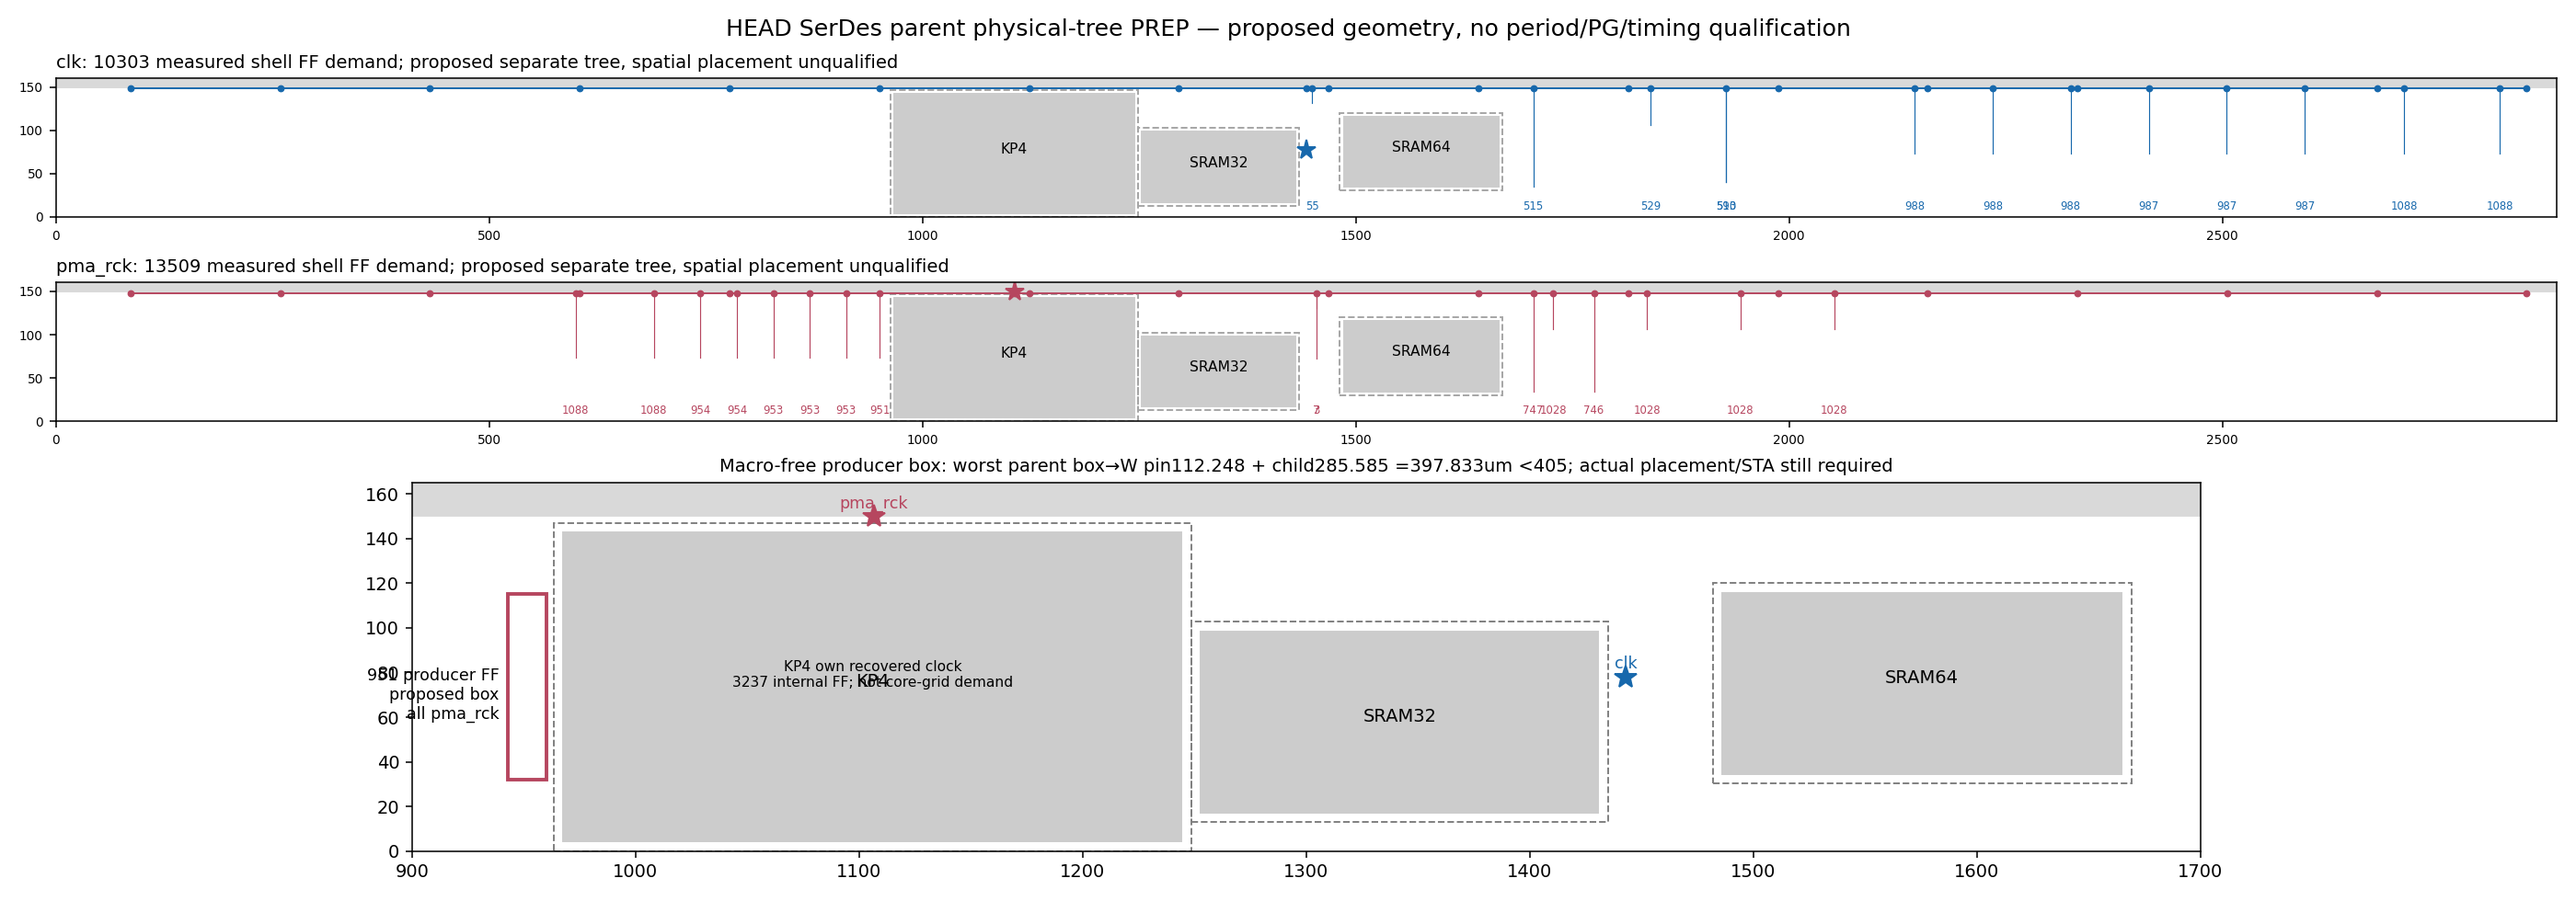
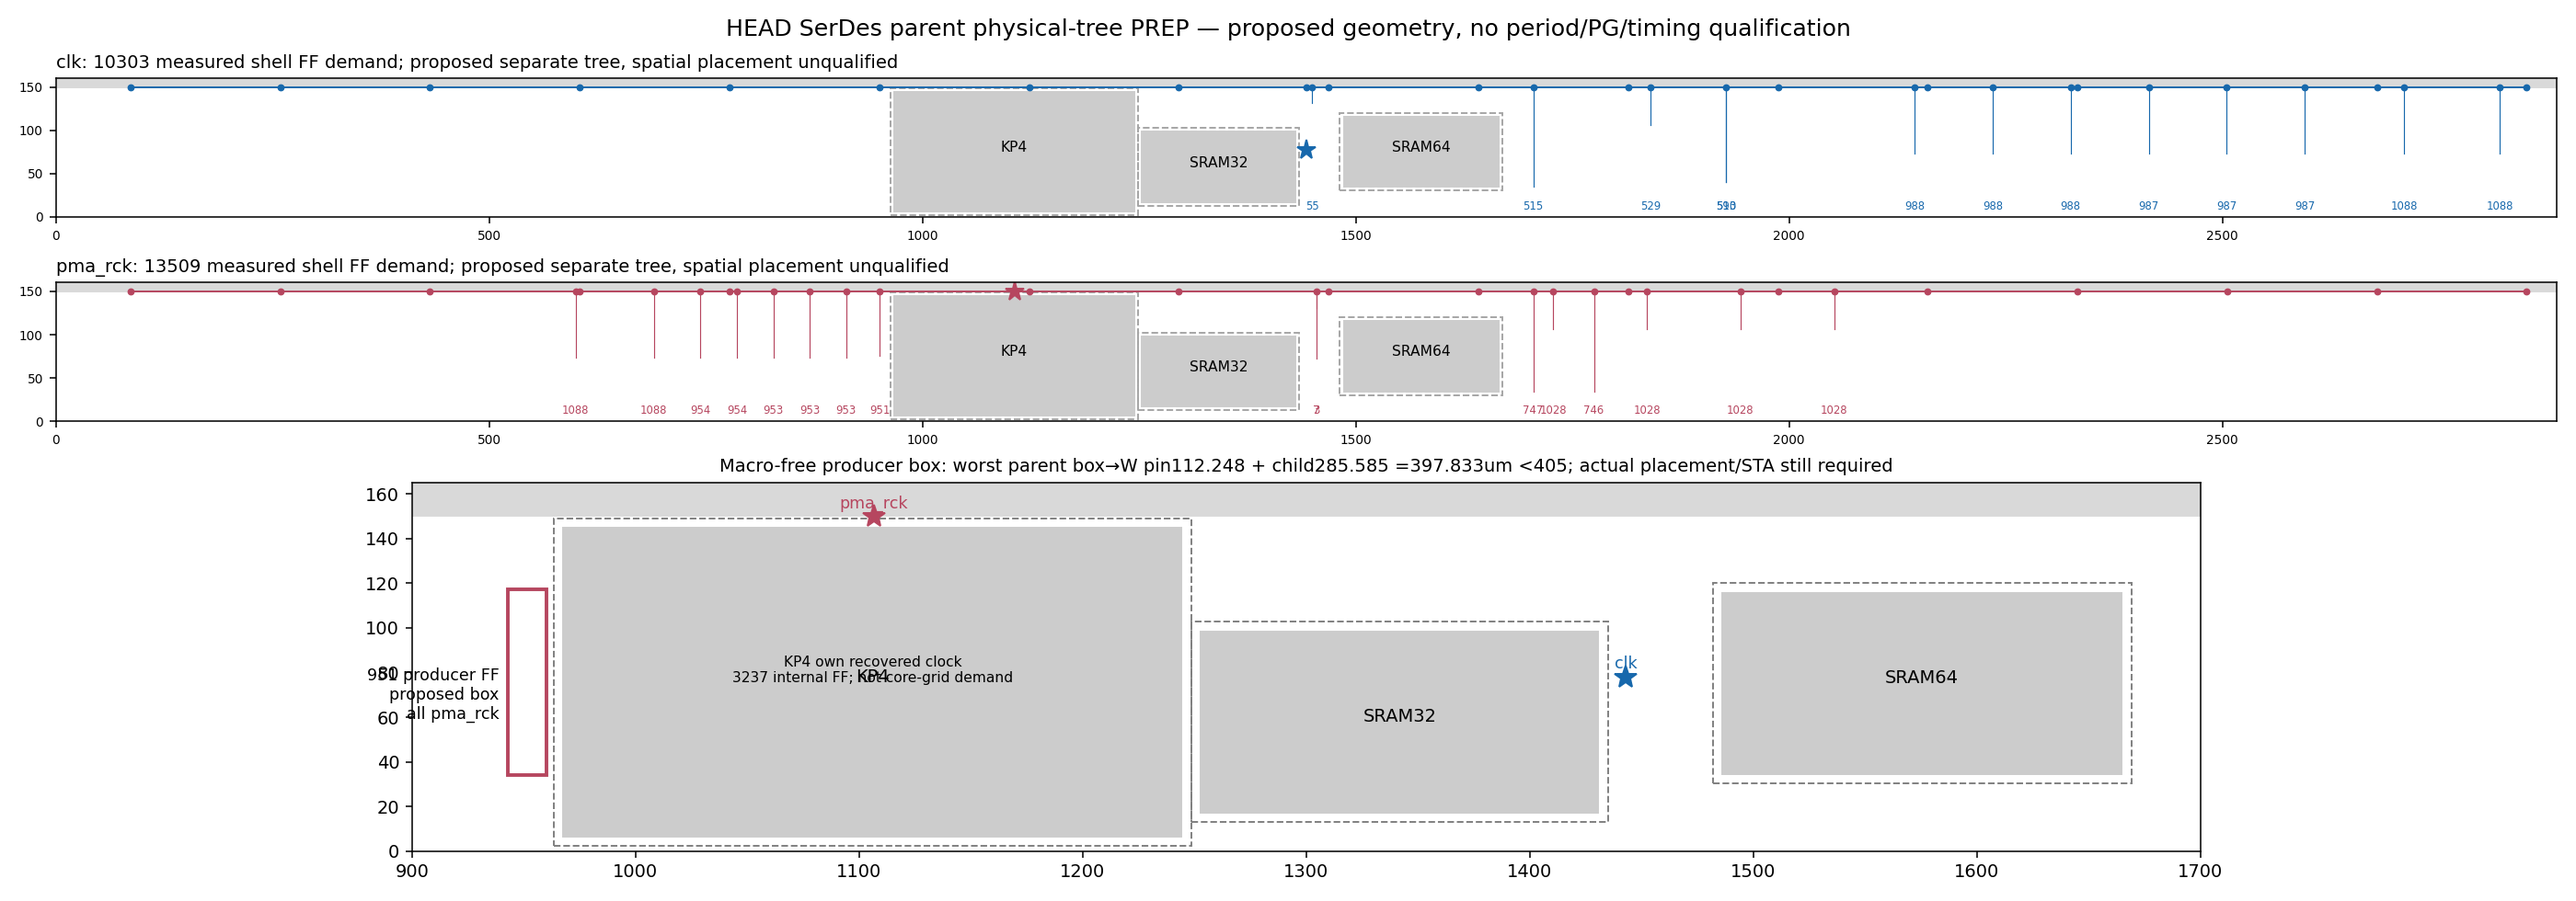
HEAD use legal track-aligned parent origin with full clock crown clearance

diff --git a/results/codex_head_collect_1030/serdes_reshape/parent_tree_prep/parent_tree_prep.py b/results/codex_head_collect_1030/serdes_reshape/parent_tree_prep/parent_tree_prep.py
@@ -8,28 +8,28 @@ prod=json.load(open('/tmp/head_collect_review/parent_kp4_producers.json'));censu
 def leaves(name,n,xs,y,rect,root):
  q,r=divmod(n,len(xs));return [dict(name=f'{name}_{i}',planned_clock_center_um=[x,y],actual_ff_demand=q+(i<r),planned_ff_region_um=rect,source_clock_port=root) for i,x in enumerate(xs)]
 rec=[]
-rec+=leaves('kp4_producers',951,[951],147.312,[943,32,960,115],'pma_rck')
-rec+=leaves('syn_remainder',4767,[744,786,828,870,912],147.312,[720,4.32,940,142.56],'pma_rck')
-rec+=leaves('prx',2176,[600,690],147.312,[550,4.32,720,142.56],'pma_rck')
-rec+=leaves('rm_write',4112,[1728,1836,1944,2052],147.312,[1675,70,2100,142.56],'pma_rck')
-rec+=leaves('dec_out',1493,[1705,1775],147.312,[1675,4.32,1815,65],'pma_rck')
-rec+=leaves('dec_dly',7,[1455],147.312,[1439,35,1477,110],'pma_rck')
-rec+=leaves('rx_misc',3,[1455],147.312,[1439,120,1477,142.56],'pma_rck')
+rec+=leaves('kp4_producers',951,[951],149.715,[943,34.208,960,117.208],'pma_rck')
+rec+=leaves('syn_remainder',4767,[744,786,828,870,912],149.715,[720,4.32,940,142.56],'pma_rck')
+rec+=leaves('prx',2176,[600,690],149.715,[550,4.32,720,142.56],'pma_rck')
+rec+=leaves('rm_write',4112,[1728,1836,1944,2052],149.715,[1675,70,2100,142.56],'pma_rck')
+rec+=leaves('dec_out',1493,[1705,1775],149.715,[1675,4.32,1815,65],'pma_rck')
+rec+=leaves('dec_dly',7,[1455],149.715,[1439,35,1477,110],'pma_rck')
+rec+=leaves('rx_misc',3,[1455],149.715,[1439,120,1477,142.56],'pma_rck')
 core=[]
-core+=leaves('enc',5925,[2145,2235,2325,2415,2505,2595],148.608,[2100,4.32,2650,142.56],'clk')
-core+=leaves('ptx',2176,[2710,2820],148.608,[2650,4.32,2881.44,142.56],'clk')
-for nm,n,x,rect in [('ring_read',590,1927,[1824.88,17.28,2030.08,62.64]),('rm_read',529,1840,[1675,70,2100,142.56]),('bout',515,1705,[1675,4.32,1760,65]),('bin',513,1927,[1824.88,17.28,2030.08,62.64])]:core+=leaves(nm,n,[x],148.608,rect,'clk')
-core+=leaves('core_misc_control',55,[1450],148.608,[1439,120,1477,142.56],'clk')
+core+=leaves('enc',5925,[2145,2235,2325,2415,2505,2595],149.445,[2100,4.32,2650,142.56],'clk')
+core+=leaves('ptx',2176,[2710,2820],149.445,[2650,4.32,2881.44,142.56],'clk')
+for nm,n,x,rect in [('ring_read',590,1927,[1824.88,17.28,2030.08,62.64]),('rm_read',529,1840,[1675,70,2100,142.56]),('bout',515,1705,[1675,4.32,1760,65]),('bin',513,1927,[1824.88,17.28,2030.08,62.64])]:core+=leaves(nm,n,[x],149.445,rect,'clk')
+core+=leaves('core_misc_control',55,[1450],149.445,[1439,120,1477,142.56],'clk')
 fwd=leaves('forwarded_ring',2086,[1875,1980],40,[1824.88,17.28,2030.08,62.64],'fclk_in_coll_i0')
 assert sum(x['actual_ff_demand'] for x in rec)==13509
 assert sum(x['actual_ff_demand'] for x in core)==10303
-macros=[dict(name='KP4',rect=[967.68,4.32,1244.16,142.56],halo=[963.36,0,1248.48,146.88]),dict(name='SRAM32',rect=[1252.908,17.292,1430.676,98.292],halo=[1248.588,12.972,1434.996,102.612]),dict(name='SRAM64',rect=[1486.188,34.572,1664.82,115.572],halo=[1481.868,30.252,1669.14,119.892])]
+macros=[dict(name='KP4',rect=[967.68,6.528,1244.16,144.768],halo=[963.36,2.208,1248.48,149.088]),dict(name='SRAM32',rect=[1252.908,17.292,1430.676,98.292],halo=[1248.588,12.972,1434.996,102.612]),dict(name='SRAM64',rect=[1486.188,34.572,1664.82,115.572],halo=[1481.868,30.252,1669.14,119.892])]
 roots={'clk':[1442.88,77.76],'pma_rck':[1106.528,149.728],'fclk_in_coll_i0':[1927.392,2.656]}
 trunks={}
-for root,y in [('clk',148.608),('pma_rck',147.312)]:
+for root,y in [('clk',149.445),('pma_rck',149.715)]:
  special=sorted(set([roots[root][0]]+[q['planned_clock_center_um'][0] for q in (core if root=='clk' else rec)]));xs=sorted(special+[86.4+172.8*i for i in range(17) if all(abs(86.4+172.8*i-z)>=4.32 for z in special)])
  trunks[root]=dict(root_um=roots[root],layer='HELD pending actual PG-lane selection',planned_buffer_centers_um=[[x,y] for x in xs],max_chain_center_leg_um=max([abs(a-z) for a,z in zip(xs,xs[1:])]+[abs(roots[root][1]-y)]))
-x=dict(status='GEOMETRY_PREP_ONLY_NOT_PLACED_NOT_TIMED_NOT_PG_QUALIFIED',outline_um=[2885.76,1226.88],digital_strip_um=[0,0,2885.76,150],macros=macros,domain_roots=roots,counts=dict(clk=10303,pma_rck=13509,fclk_in_coll_i0=2086,kp4_internal=3237),leaves=dict(clk=core,pma_rck=rec,fclk_in_coll_i0=fwd),trunk_geometry=trunks,kp4_producers=dict(unique_ff=951,root='pma_rck',planned_centers_rect_um=[943,32,960,115],actual_native_instances=[q['inst'] for q in prod['source_ff']],worst_box_to_any_child_W_pin_um=112.248,child_internal_worst_um=285.585,combined_conservative_um=397.833,margin_to405_um=7.167,leaf_center_um=[951,147.312],max_leaf_to_box_um=124.312),constraints=['No RX period or clock qualification invented; PMA typed pad contract held until reviewed authority.','Counts measured from native shell; rectangles/stations are proposed placement input, never measured bins.','Actual source boot/reset FF delta must bind to its own actual net.','All clock cell sites/nets require actual PG clearance, legal DPL and actual rooted-tree dump before route.','Parent actual real-child-view STA must time all320 inputs/0unconstrained and combined producer reach<=405.','Core misc control55 locations are provisional; actual raw reset/start anchors take priority.','Do not substitute old216x194.4 child LEF/lib for newshape.'])
+x=dict(status='GEOMETRY_PREP_ONLY_NOT_PLACED_NOT_TIMED_NOT_PG_QUALIFIED',outline_um=[2885.76,1226.88],digital_strip_um=[0,0,2885.76,150],macros=macros,domain_roots=roots,counts=dict(clk=10303,pma_rck=13509,fclk_in_coll_i0=2086,kp4_internal=3237),leaves=dict(clk=core,pma_rck=rec,fclk_in_coll_i0=fwd),trunk_geometry=trunks,kp4_producers=dict(unique_ff=951,root='pma_rck',planned_centers_rect_um=[943,34.208,960,117.208],actual_native_instances=[q['inst'] for q in prod['source_ff']],worst_box_to_any_child_W_pin_um=112.248,child_internal_worst_um=285.585,combined_conservative_um=397.833,margin_to405_um=7.167,leaf_center_um=[951,149.715],max_leaf_to_box_um=124.507),constraints=['No RX period or clock qualification invented; PMA typed pad contract held until reviewed authority.','Counts measured from native shell; rectangles/stations are proposed placement input, never measured bins.','Actual source boot/reset FF delta must bind to its own actual net.','All clock cell sites/nets require actual PG clearance, legal DPL and actual rooted-tree dump before route.','Parent actual real-child-view STA must time all320 inputs/0unconstrained and combined producer reach<=405.','Core misc control55 locations are provisional; actual raw reset/start anchors take priority.','Do not substitute old216x194.4 child LEF/lib for newshape.'])
 (out/'recipe.json').write_text(json.dumps(x,indent=1)+'\n')
 fig=plt.figure(figsize=(20,7));gs=fig.add_gridspec(3,1,height_ratios=[1,1,2.5]);colors={'clk':'#1768AC','pma_rck':'#B6465F','fclk_in_coll_i0':'#438A5E'}
 for idx,root in enumerate(['clk','pma_rck']):
@@ -46,7 +46,7 @@ for m in macros:
 a,c,d,e=x['kp4_producers']['planned_centers_rect_um'];ax.add_patch(Rectangle((a,c),d-a,e-c,fill=False,edgecolor=colors['pma_rck'],lw=2));ax.text(a-4,70,'951 producer FF\nproposed box\nall pma_rck',ha='right',va='center',fontsize=9)
 for root in ['clk','pma_rck']:
  rx,ry=roots[root];ax.plot(rx,ry,'*',color=colors[root],ms=13);ax.text(rx,ry+4,root,ha='center',fontsize=9,color=colors[root])
-ax.text(1106.04,73.44,'KP4 own recovered clock\n3237 internal FF; not core-grid demand',ha='center',fontsize=8)
+ax.text(1106.04,75.648,'KP4 own recovered clock\n3237 internal FF; not core-grid demand',ha='center',fontsize=8)
 ax.set_title('Macro-free producer box: worst parent box→W pin112.248 + child285.585 =397.833um <405; actual placement/STA still required',fontsize=10)
 fig.suptitle('HEAD SerDes parent physical-tree PREP — proposed geometry, no period/PG/timing qualification',fontsize=13);fig.tight_layout();fig.savefig(out/'preview.png',dpi=140)
 print(out)

diff --git a/results/codex_head_collect_1030/serdes_reshape/reshape_serdes.py b/results/codex_head_collect_1030/serdes_reshape/reshape_serdes.py
@@ -32,10 +32,10 @@ io=re.sub(r'place_pin -pin_name \{([^}]+)\} -layer \w+ -location \{([^}]+)\}',su
 (R/'pins.json').write_text(json.dumps(new,indent=1)+'\n');(R/'io.tcl').write_text(io)
 doc=dict(oldcanon,rule='RESHAPE PROPOSAL: unchanged945pin names/layers/sizes/faceorder; recentered groups on276.48x138.24; clock/reset unchanged relative center and .108gap',outline_um=[W,H],pins=canonical)
 (R/'plan_pins.json').write_text(json.dumps(doc,indent=1)+'\n')
-child=dict(inst='u_phy.u_link.u_dec.u_chn',module='ot_s81_kp4_dchn',origin_um=[967.68,0.0],track_offset_um=[0,4.32],outline_um=[W,H],orient='R0',pins_file='core_pins/kp4_276x138_pins.json',cells=189510,obs_max='M5',note='PROPOSED NOT SIGNED: actual189510stdcells21631.646um2;945sameRTLports0cycles; recenteredpinprofile within150um digitalstrip. Parent origin967.68,0 + trackoffset0,4.32; noLEF/lib until matching actualview.')
+child=dict(inst='u_phy.u_link.u_dec.u_chn',module='ot_s81_kp4_dchn',origin_um=[967.68,8.64],track_offset_um=[0,-2.112],outline_um=[W,H],orient='R0',pins_file='core_pins/kp4_276x138_pins.json',cells=189510,obs_max='M5',note='PROPOSED NOT SIGNED: actual189510stdcells21631.646um2;945sameRTLports0cycles; recenteredpinprofile within150um digitalstrip. Parent origin967.68,8.64 + trackoffset0,-2.112; noLEF/lib until matching actualview.')
 (R/'parent_core_proposal.json').write_text(json.dumps(child,indent=1)+'\n')
 a=21631.64615995453;core=(W-8.64)*(H-8.64);clk=by['clk'];rst=by['rst_n'];gap=clk['x']-clk['size'][0]/2-rst['x']-rst['size'][0]/2
-est=dict(scope='estimate BEFORE physical build; no adoption',std_cells=189510,std_area_um2=a,outline_um=[W,H],aspect=W/H,gross_util=a/(W*H),usable_util=a/core,reason_usable_above_0p60='150um PHY digital strip fixes height;aspect2limitswidth;usable.623 remains below.75hardGEOMceiling;no threshold waiver',child_clock_root=[clk['x'],clk['y']],max_root_manhattan_um=max(abs(x-clk['x'])+abs(y-clk['y']) for x in [0,W] for y in [0,H]),clk_reset_edge_gap_um=gap,macro_halo_um=4.32,parent_actual_origin_um=[967.68,4.32],parent_core_root_geometric_reference_only_um=abs(1442.88-(967.68+clk['x']))+abs(77.76-(4.32+clk['y'])),srams_preserved=[dict(name='cmem',origin_um=[1252.8,17.28],outline_um=[177.768,81]),dict(name='dmem',origin_um=[1486.08,34.56],outline_um=[178.632,81])],nearest_SRAM_edge_gap_um=1252.8-(967.68+W),halo_top_um=4.32+H+4.32,phy_start_y_um=150,child_clock_domain='PMA recovered pma_rck; actual parent pad site and input clock contract pending; parent core clk is not the source',pins=945,pin_names_layers_sizes_faceorder_unchanged=True,added_cycles=0,added_RTL=0)
+est=dict(scope='estimate BEFORE physical build; no adoption',std_cells=189510,std_area_um2=a,outline_um=[W,H],aspect=W/H,gross_util=a/(W*H),usable_util=a/core,reason_usable_above_0p60='150um PHY digital strip fixes height;aspect2limitswidth;usable.623 remains below.75hardGEOMceiling;no threshold waiver',child_clock_root=[clk['x'],clk['y']],max_root_manhattan_um=max(abs(x-clk['x'])+abs(y-clk['y']) for x in [0,W] for y in [0,H]),clk_reset_edge_gap_um=gap,macro_halo_um=4.32,parent_actual_origin_um=[967.68,6.528],parent_core_root_geometric_reference_only_um=abs(1442.88-(967.68+clk['x']))+abs(77.76-(6.528+clk['y'])),srams_preserved=[dict(name='cmem',origin_um=[1252.8,17.28],outline_um=[177.768,81]),dict(name='dmem',origin_um=[1486.08,34.56],outline_um=[178.632,81])],nearest_SRAM_edge_gap_um=1252.8-(967.68+W),halo_top_um=6.528+H+4.32,phy_start_y_um=150,child_clock_domain='PMA recovered pma_rck; actual parent pad site and input clock contract pending; parent core clk is not the source',pins=945,pin_names_layers_sizes_faceorder_unchanged=True,added_cycles=0,added_RTL=0)
 (R/'estimate.json').write_text(json.dumps(est,indent=1)+'\n')
 fig,(ax,pa)=plt.subplots(2,1,figsize=(15,7),gridspec_kw={'height_ratios':[2,1]})
 ax.add_patch(Rectangle((0,0),W,H,fill=False,lw=2));cols={'N':'teal','S':'purple','W':'orange','E':'brown','interior':'red'}
@@ -43,10 +43,10 @@ for f in cols:
  pp=[p for p in new if p['face']==f];ax.scatter([p['x'] for p in pp],[p['y'] for p in pp],s=4,c=cols[f],label=f'{f}: {len(pp)}')
 ax.scatter([clk['x']],[clk['y']],marker='*',s=140,c='red');ax.set_aspect('equal');ax.set_xlim(-8,W+8);ax.set_ylim(-10,H+10);ax.legend(loc='upper right');ax.set_title('SerDes child reshape proposal —945same ports/RTL, recentered face groups,0cycles; root reach207.48um')
 pa.add_patch(Rectangle((900,150),850,40,color='gray',alpha=.4,label='PHY starts y150'))
-pa.add_patch(Rectangle((967.68,4.32),W,H,facecolor='teal',alpha=.25,label='proposed child'))
-pa.add_patch(Rectangle((967.68-4.32,0),W+8.64,H+8.64,fill=False,ls='--',edgecolor='teal'))
+pa.add_patch(Rectangle((967.68,6.528),W,H,facecolor='teal',alpha=.25,label='proposed child'))
+pa.add_patch(Rectangle((967.68-4.32,2.208),W+8.64,H+8.64,fill=False,ls='--',edgecolor='teal'))
 for s in est['srams_preserved']:pa.add_patch(Rectangle(s['origin_um'],*s['outline_um'],facecolor='orange',alpha=.4));pa.text(s['origin_um'][0],s['origin_um'][1]+20,s['name'])
-pa.scatter([1442.88],[77.76],marker='*',c='red',s=100,label='core clock root');pa.scatter([967.68+clk['x']],[4.32+clk['y']],marker='*',c='blue',s=100,label='child PHY RX clock input')
+pa.scatter([1442.88],[77.76],marker='*',c='red',s=100,label='core clock root');pa.scatter([967.68+clk['x']],[6.528+clk['y']],marker='*',c='blue',s=100,label='child PHY RX clock input')
 pa.set_xlim(900,1750);pa.set_ylim(-5,190);pa.set_aspect('equal');pa.legend(loc='upper right');pa.set_title('Parent digital strip —child+halo146.88<150,SRAMgap8.64; recovered-RX clock pad placement pending')
 fig.tight_layout();fig.savefig(R/'preview.png',dpi=160)
 print(json.dumps(est))
